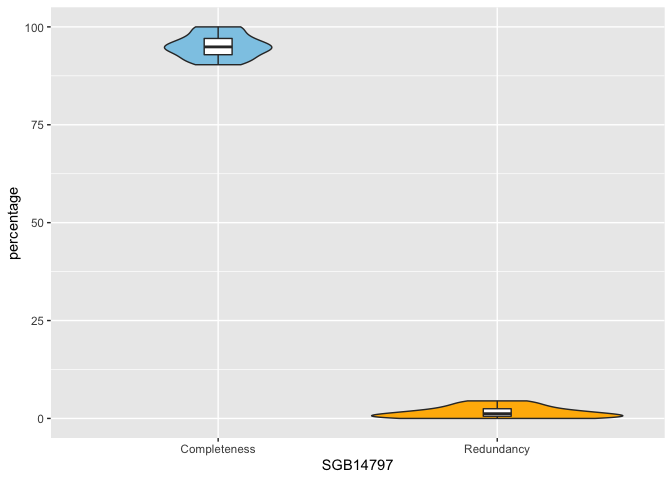
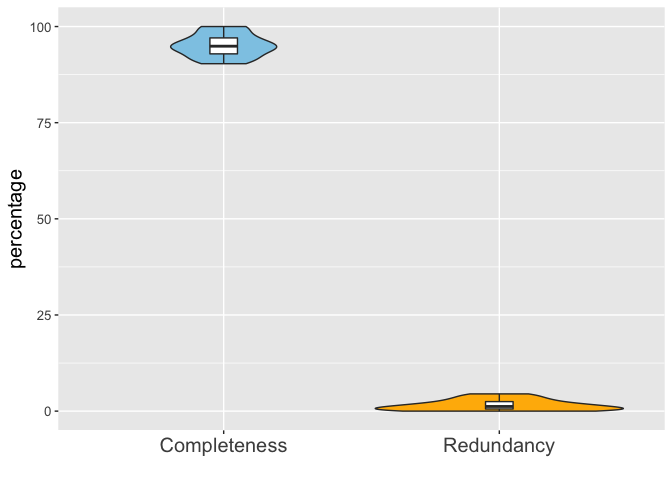
updates

Changed region(s): [[0.0, 0.0, 1.0, 1.0], [0.25, 0.0312, 0.4062, 0.1562]]

diff --git a/Rscript/CMG_Rscript.md b/Rscript/CMG_Rscript.md
@@ -124,7 +124,10 @@ cr$percentage <- as.numeric(cr$percentage)
 
 ggplot(data=cr, aes(x=SGB14797, y=percentage, fill=SGB14797)) +
   geom_violin() +
-  theme(plot.title = element_text(size = 17),
+  xlab("") +
+  theme(axis.text.x = element_text(size=15),
+        axis.text.y = element_text(size=10),
+        axis.title.y = element_text(size=15),
         legend.position = "none") +
   scale_fill_manual(values = mycolors[c(1,4)]) +
   geom_boxplot(width=0.1, fill="white")
@@ -239,7 +242,8 @@ ggplot(data=prokka_CDS, aes(x=MAG, fill=protein_type)) +
   scale_fill_manual(values = mycolors[c(2,5)]) +
   ggtitle("Coding sequences") +
   theme(axis.text.x = element_text(angle=45, hjust=1, vjust=1, size=6, color="black"),
-        plot.title = element_text(size = 17))
+        plot.title = element_text(size = 17),
+        legend.position = c(0.87,0.22))
 # non-coding Sequences
 
 ggplot(data=prokka_nonCDS, aes(x=MAG, fill=ftype)) +
@@ -247,7 +251,8 @@ ggplot(data=prokka_nonCDS, aes(x=MAG, fill=ftype)) +
   scale_fill_manual(values = mycolors[c(3,2,1,4)]) +
   ggtitle("Non-coding Sequences") +
   theme(axis.text.x = element_text(angle=55, hjust=1, vjust=1, size=6, color="black"),
-        plot.title = element_text(size = 17))
+        plot.title = element_text(size = 17),
+        legend.position = c(0.9, 0.35))
 
 # Gene length
 
